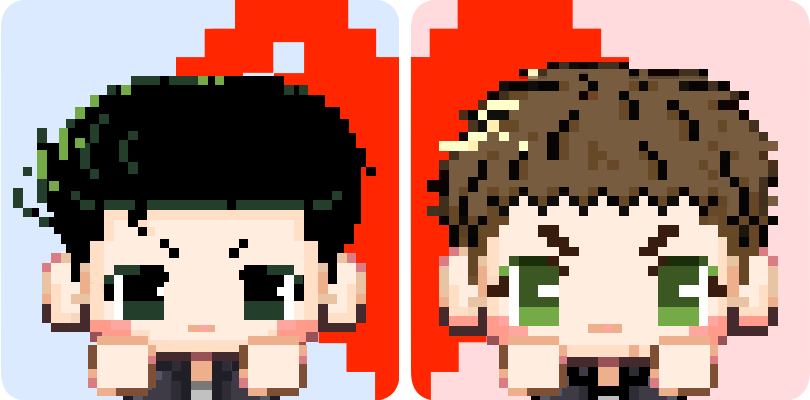
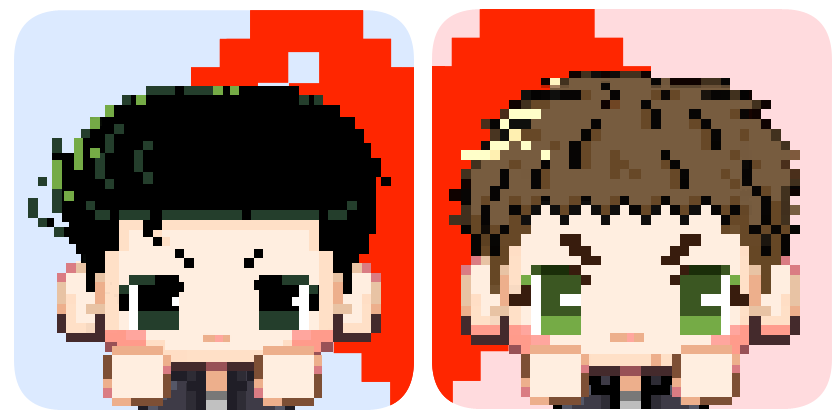
아크릴 마그넷 이미지 수정

diff --git a/src/pages/mdpage.css b/src/pages/mdpage.css
@@ -20,6 +20,10 @@
 }
 
 @media (max-width: 768px) {
+  .goods-image {
+    width: 90%;
+  }
+
   .goods-image2 {
     width: 200px;
   }
